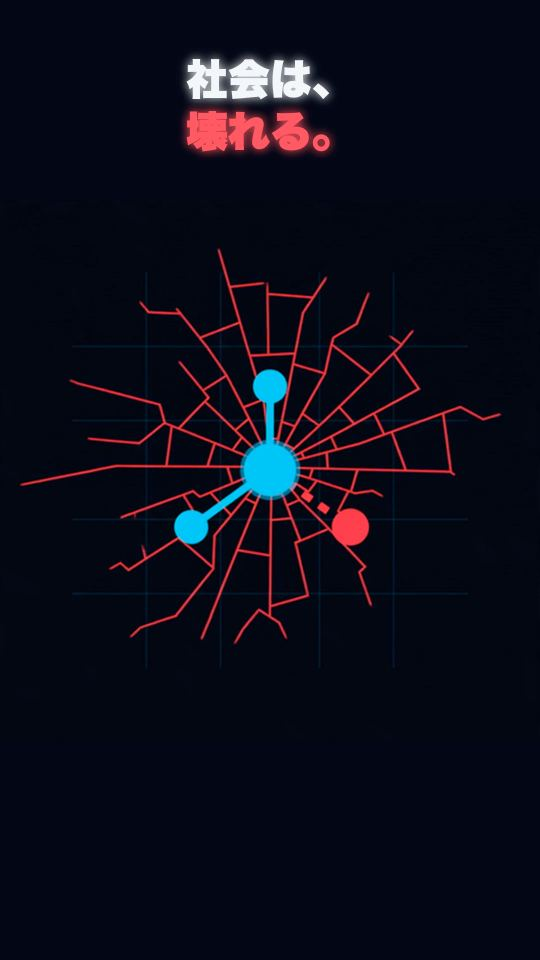
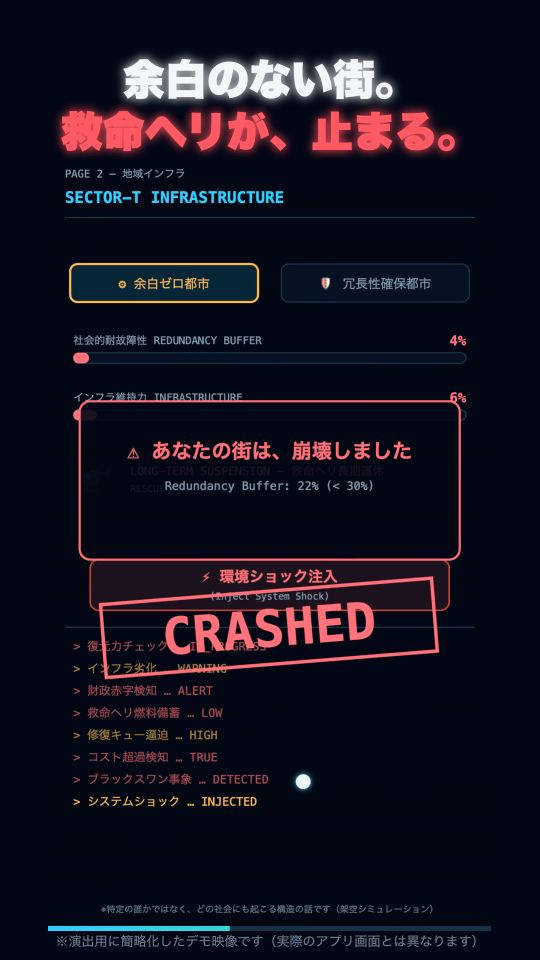
feat(lp): use the CRASHED frame for the PAGE 2 short card
"社会は、壊れる。" over an abstract network did not say what the video
is about; the frame at 11s shows the zero-slack town collapsing.

Claude-Session: https://claude.ai/code/session_0147c7svkcZ65gDofjxZinL5

diff --git a/web/lp/index.html b/web/lp/index.html
@@ -928,13 +928,15 @@
             <span class="short-poster"
               ><img
                 src="media/yt-p2.jpg"
-                alt="「社会は、壊れる。」の文字と、ひび割れたネットワークの動画のはじめの場面"
+                alt="「余白のない街。救命ヘリが、止まる。」の文字と、街が崩壊した（CRASHED）デモ画面の場面"
                 width="540"
                 height="960"
                 loading="lazy"
             /></span>
             <span class="short-cap"
-              >社会は、壊れる。<small>PAGE 2 — 余白のない街に、災害が来たら</small></span
+              >余白のない街。救命ヘリが止まる。<small
+                >PAGE 2 — 同じ災害で、崩れる街と生き残る街</small
+              ></span
             >
           </a>
           <a
